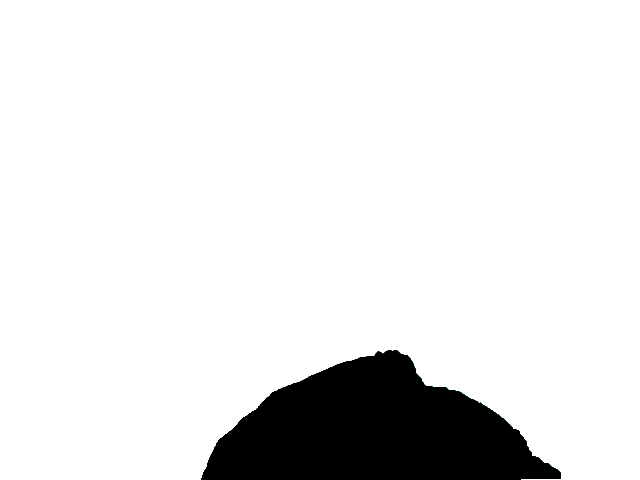
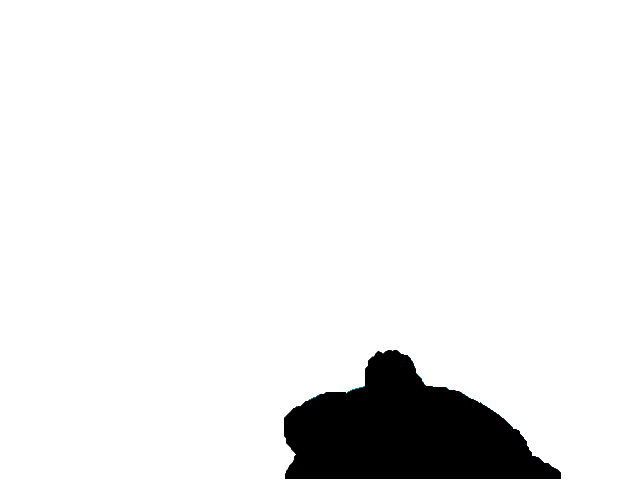
Added thresholding

Changed region(s): [[0.3125, 0.7188, 0.5938, 1.0]]

diff --git a/ada_feeding_perception/ada_feeding_perception/republisher.py b/ada_feeding_perception/ada_feeding_perception/republisher.py
@@ -48,11 +48,13 @@ class Republisher(Node):
         mask_post_processor_str = "mask"
         temporal_post_processor_str = "temporal"
         spatial_post_processor_str = "spatial"
+        threshold_post_processor_str = "threshold"
         self.create_post_processors = {
             identity_post_processor_str: lambda: lambda msg: msg,
             mask_post_processor_str: lambda: self.mask_post_processor,
             temporal_post_processor_str: self.create_temporal_post_processor,
             spatial_post_processor_str: lambda: self.spatial_post_processor,
+            threshold_post_processor_str: lambda: self.threshold_post_processor,
         }
 
         # Load the parameters
@@ -64,6 +66,8 @@ class Republisher(Node):
             mask_relative_path,
             self.temporal_window_size,
             self.spatial_num_pixels,
+            self.threshold_min,
+            self.threshold_max,
         ) = self.load_parameters()
 
         # Import the topic types
@@ -162,7 +166,7 @@ class Republisher(Node):
 
     def load_parameters(
         self,
-    ) -> Tuple[List[str], List[str], List[List[str]], str, str, int, int]:
+    ) -> Tuple[List[str], List[str], List[List[str]], str, str, int, int, int, int]:
         """
         Load the parameters for the republisher.
 
@@ -183,6 +187,10 @@ class Republisher(Node):
             The size of the window (num frames) to use for the temporal post-processor.
         spatial_num_pixels : int
             The number of pixels to use for the spatial post-processor.
+        threshold_min : int
+            The minimum value to use for the threshold post-processor.
+        threshold_max : int
+            The maximum value to use for the threshold post-processor.
         """
         # Read the from topics
         from_topics = self.declare_parameter(
@@ -292,6 +300,34 @@ class Republisher(Node):
             ),
         )
 
+        # The min/max threshold values for the threshold post-processor
+        threshold_min = self.declare_parameter(
+            "threshold_min",
+            0,
+            descriptor=ParameterDescriptor(
+                name="threshold_min",
+                type=ParameterType.PARAMETER_INTEGER,
+                description=(
+                    "The minimum value to use for the threshold post-processor. "
+                    "Default: 0"
+                ),
+                read_only=True,
+            ),
+        )
+        threshold_max = self.declare_parameter(
+            "threshold_max",
+            20000,
+            descriptor=ParameterDescriptor(
+                name="threshold_max",
+                type=ParameterType.PARAMETER_INTEGER,
+                description=(
+                    "The maximum value to use for the threshold post-processor. "
+                    "Default: 20000"
+                ),
+                read_only=True,
+            ),
+        )
+
         # Replace unset parameters with empty list
         from_topics_retval = from_topics.value
         if from_topics_retval is None:
@@ -308,6 +344,8 @@ class Republisher(Node):
             mask_relative_path.value,
             temporal_window_size.value,
             spatial_num_pixels.value,
+            threshold_min.value,
+            threshold_max.value,
         )
 
     def create_callback(
@@ -460,6 +498,35 @@ class Republisher(Node):
         kernel = np.ones((self.spatial_num_pixels, self.spatial_num_pixels), np.uint8)
         opened_mask = cv.morphologyEx(mask, cv.MORPH_OPEN, kernel)
         masked_img = cv.bitwise_and(img, img, mask=opened_mask)
+
+        # Get the new img message
+        masked_msg = self.bridge.cv2_to_imgmsg(masked_img)
+        masked_msg.header = msg.header
+
+        return masked_msg
+
+    def threshold_post_processor(self, msg: Image) -> Image:
+        """
+        Applies a threshold to the image.
+
+        Parameters
+        ----------
+        msg : Image
+            The image to process.
+
+        Returns
+        -------
+        Image
+            The processed image. All other attributes of the message remain the same.
+        """
+        # Read the ROS msg as a CV image
+        img = self.bridge.imgmsg_to_cv2(msg)
+
+        # Apply the threshold
+        mask = cv.inRange(
+            img, self.threshold_min, self.threshold_max
+        )
+        masked_img = cv.bitwise_and(img, img, mask=mask)
 
         # Get the new img message
         masked_msg = self.bridge.cv2_to_imgmsg(masked_img)
